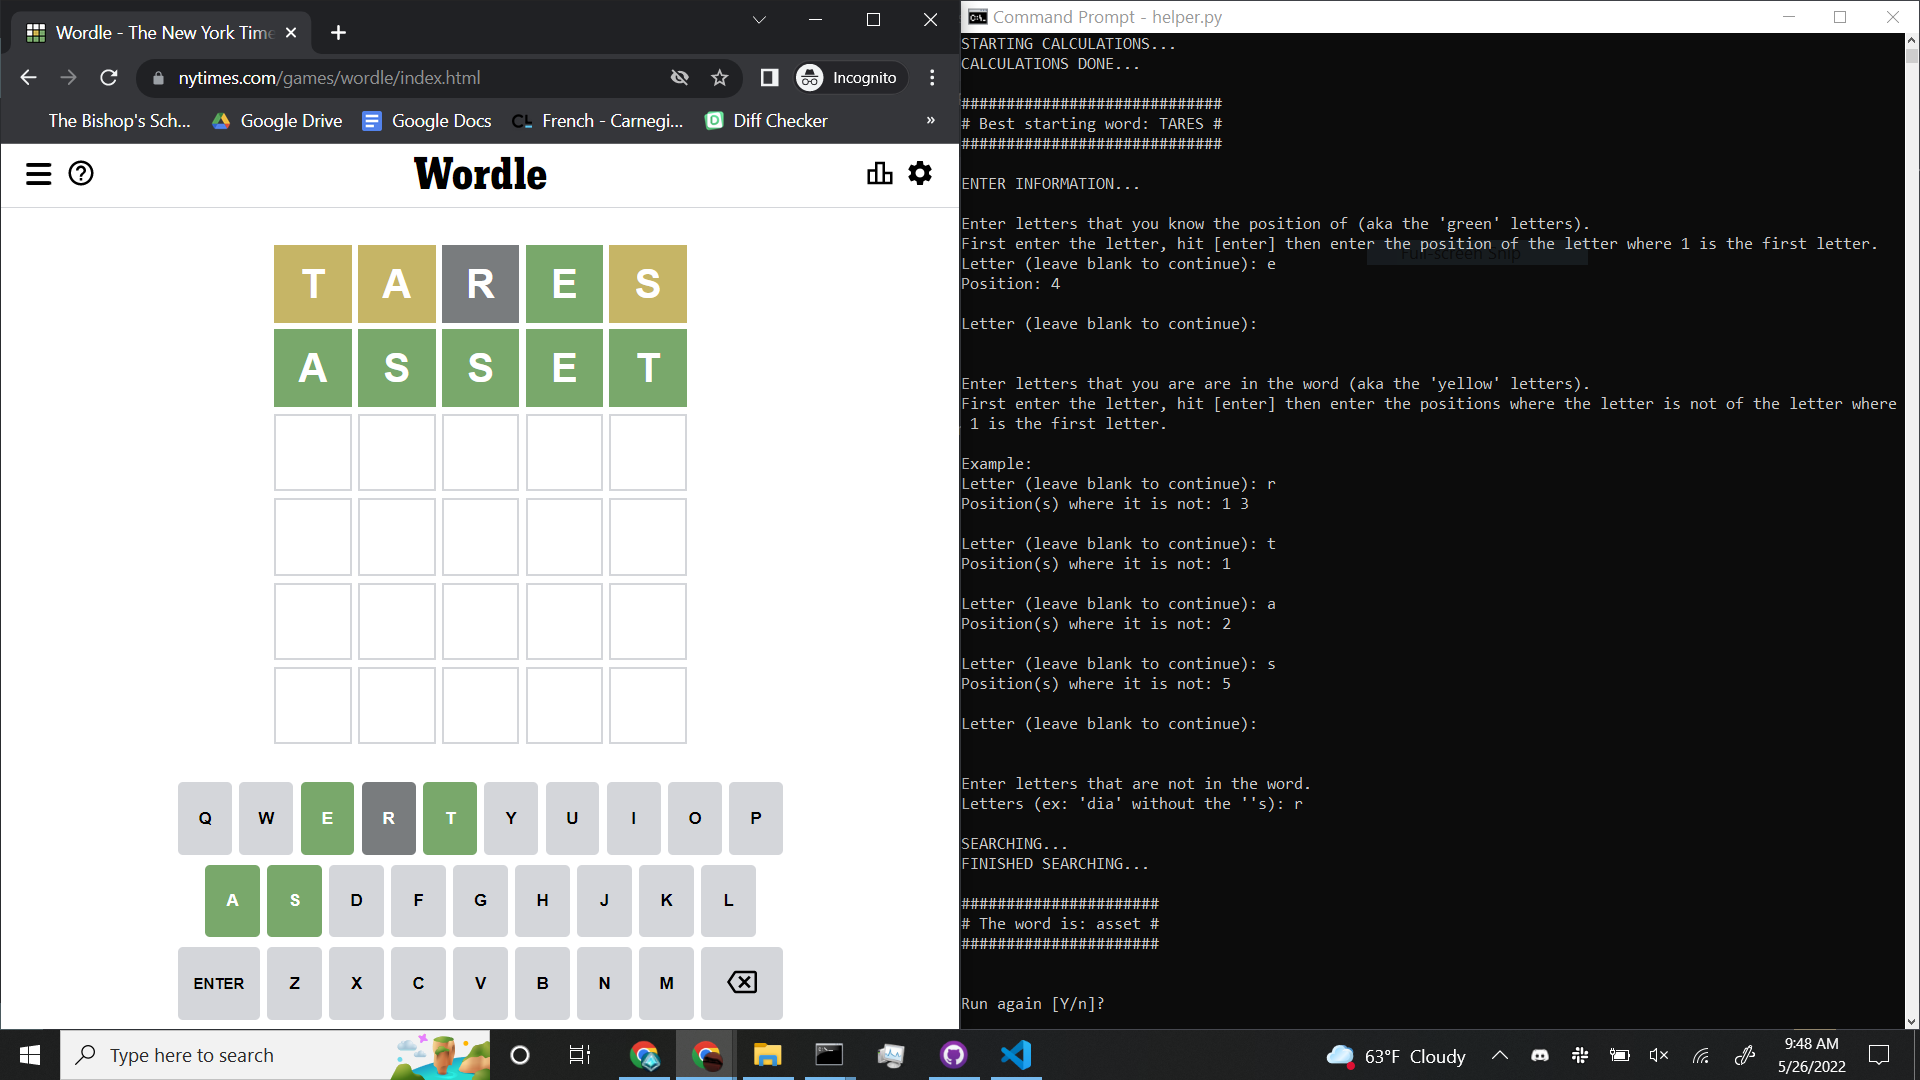
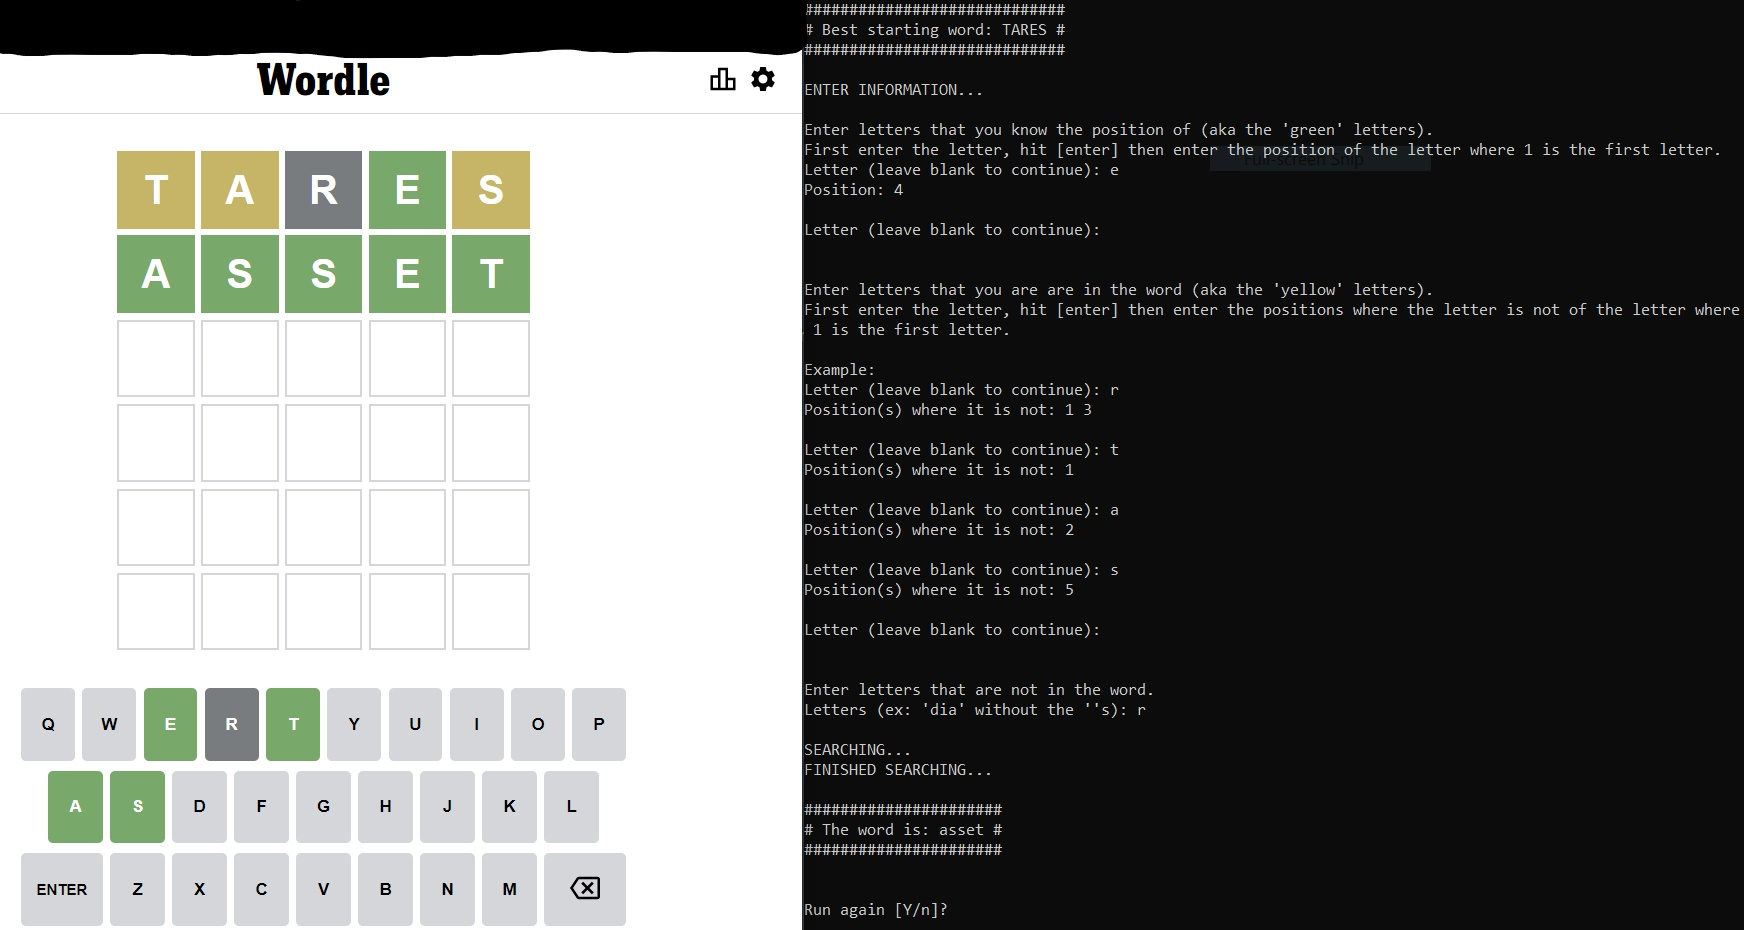
Updating showcase image

diff --git a/Django/WordlePlus/TODO.md b/Django/WordlePlus/TODO.md
@@ -1,15 +1,4 @@
 # Todo for Wordle<sup>+</sup>
 
-helper.py
-- Improve word ranking system?
-    - Tweak "weights"?
-- Crop/improve image
-- SOARE
-    - rebuild dictionary
-
-Prepare for full release
-- Firewall server away from wifi
-- Update code:
-    - Filtering is incorrect - fixed on Main, not on server
-- rebuild dictionary?
-    - set DB/scores
+NOTE:
+- A better version of helper.py might be avalible at <https://github.com/LelsersLasers/WordleHelper/>

diff --git a/README.md b/README.md
@@ -21,7 +21,7 @@ To play: visit <strong><http://64.98.192.41:8000/wordle/></strong> and enjoy!
 
 ![Actual Game](https://github.com/Lord-Lelsers/Applied-Comp-Sci/raw/main/Django/WordlePlus/showcase/game.PNG)
 
-Helper Tool
+Helper Tool (CLI program that helps search through a dictionary then ranks the possible words)
 ![Helper Tool](https://github.com/Lord-Lelsers/Applied-Comp-Sci/raw/main/Django/WordlePlus/showcase/helper_tool.PNG)
 
 Welcome Page
